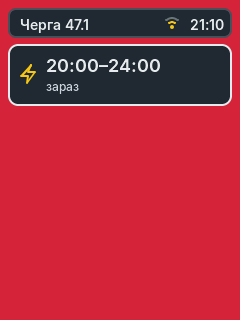
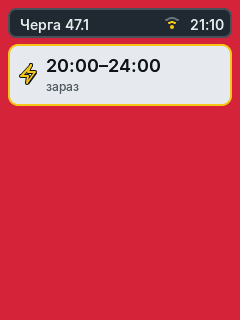
Schedule screen: light blocks match the main screen's light tile
Power-on blocks are now light with dark text and an outlined bolt, like the "Світло" tile;
the current block gets a yellow border on light and white on red.

Changed region(s): [[0.0292, 0.125, 0.9917, 0.3438]]

diff --git a/src/ui.cpp b/src/ui.cpp
@@ -232,7 +232,8 @@ void createMain() {
 
 // ── Екран 2: графік відключень — макет A (рішення власника 27.11.2026) ──
 // Рядок згори як на основному екрані (черга, Wi-Fi, час), під ним до 4 блоків-проміжків від поточного:
-// світло є — сіра картка з жовтою блискавкою, немає — темно-червона з перекресленою; поточний обведено білим.
+// світло є — світла картка (як плитка «Світло» на основному екрані) з жовтою блискавкою в темній обвідці,
+// немає — темно-червона з перекресленою; поточний обведено жовтим (на світлій) або білим (на червоній).
 // У блоці — «14:00–18:00» і підпис «зараз · ще 2 г 45 хв» / «завтра · 2 год». Замість блоків — «Екстрені
 // відключення» або «Даних немає».
 constexpr Rgb OFF_BG = 0x3B1218, OFF_EDGE = 0x7A2530;
@@ -244,7 +245,7 @@ const lv_point_precise_t BOLT_S[] = {{11, 0}, {1, 11}, {8, 11}, {7, 18}, {15, 7}
 const lv_point_precise_t SLASH_S[] = {{0, 1}, {15, 19}};
 
 struct BlockUi {
-  lv_obj_t *box, *bolt, *slash, *time, *note;
+  lv_obj_t *box, *boltBg, *bolt, *slash, *time, *note;
 };
 
 struct MapUi {
@@ -274,9 +275,10 @@ void createMap() {
     BlockUi& u = G.b[k];
     u.box = box(G.scr, M, BLK_Y0 + k * (BLK_H + GAP), BLK_W, BLK_H, col::CARD, 10);
     lv_obj_set_style_border_width(u.box, 2, 0);
+    u.boltBg = line(u.box, BOLT_S, 7, 4, col::TEXT_DARK);
     u.bolt = line(u.box, BOLT_S, 7, 2, col::BOLT);
     u.slash = line(u.box, SLASH_S, 2, 2, col::ALERT_RED);
-    for (lv_obj_t* o : {u.bolt, u.slash}) lv_obj_set_pos(o, 10, (BLK_H - 4 - 19) / 2);
+    for (lv_obj_t* o : {u.boltBg, u.bolt, u.slash}) lv_obj_set_pos(o, 10, (BLK_H - 4 - 19) / 2);
     u.time = label(u.box, &inter_18_semi, col::TEXT);
     lv_obj_set_x(u.time, 36);
     baseline(u.time, 26);
@@ -443,12 +445,14 @@ void showMap(const outage::MapModel& m, tiles::Wifi wifi) {
     show(u.box, on);
     if (!on) continue;
     const outage::Row& r = m.rows[k];
-    lv_obj_set_style_bg_color(u.box, c(r.light ? col::CARD : OFF_BG), 0);
-    lv_obj_set_style_border_color(u.box, c(r.current ? col::TEXT : r.light ? col::CARD_EDGE : OFF_EDGE), 0);
+    lv_obj_set_style_bg_color(u.box, c(r.light ? col::CARD_LIGHT : OFF_BG), 0);
+    Rgb edge = r.light ? (r.current ? col::BOLT : col::CARD_LIGHT) : (r.current ? col::TEXT : OFF_EDGE);
+    lv_obj_set_style_border_color(u.box, c(edge), 0);
     lv_obj_set_style_line_color(u.bolt, c(r.light ? col::BOLT : col::ALERT_RED), 0);
+    show(u.boltBg, r.light);
     show(u.slash, !r.light);
-    setText(u.time, r.text, r.light ? col::TEXT : col::ALERT_RED);
-    setText(u.note, r.note, col::MUTED);
+    setText(u.time, r.text, r.light ? col::TEXT_DARK : col::ALERT_RED);
+    setText(u.note, r.note, r.light ? col::TEXT_DARK2 : col::MUTED);
     // без підпису — час по центру блока
     show(u.note, r.note[0] != 0);
     baseline(u.time, r.note[0] ? 26 : 36);
